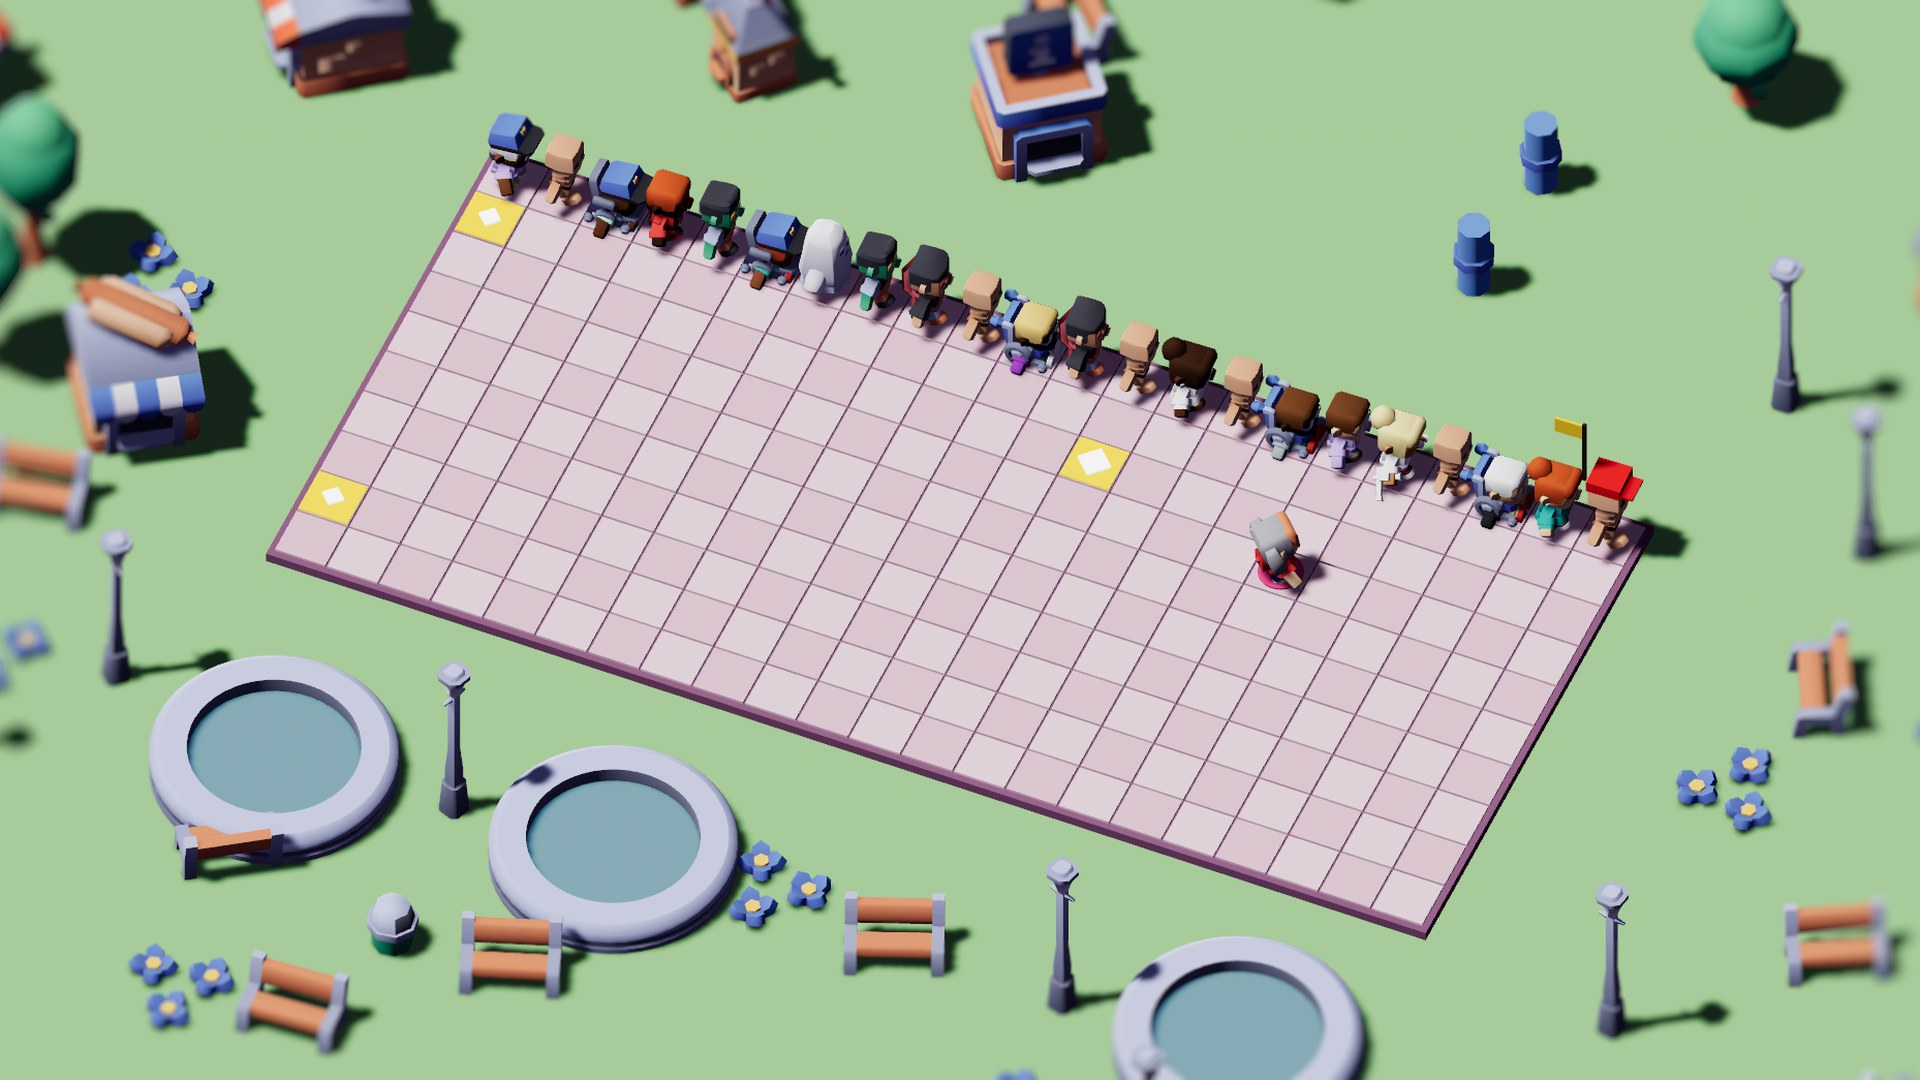
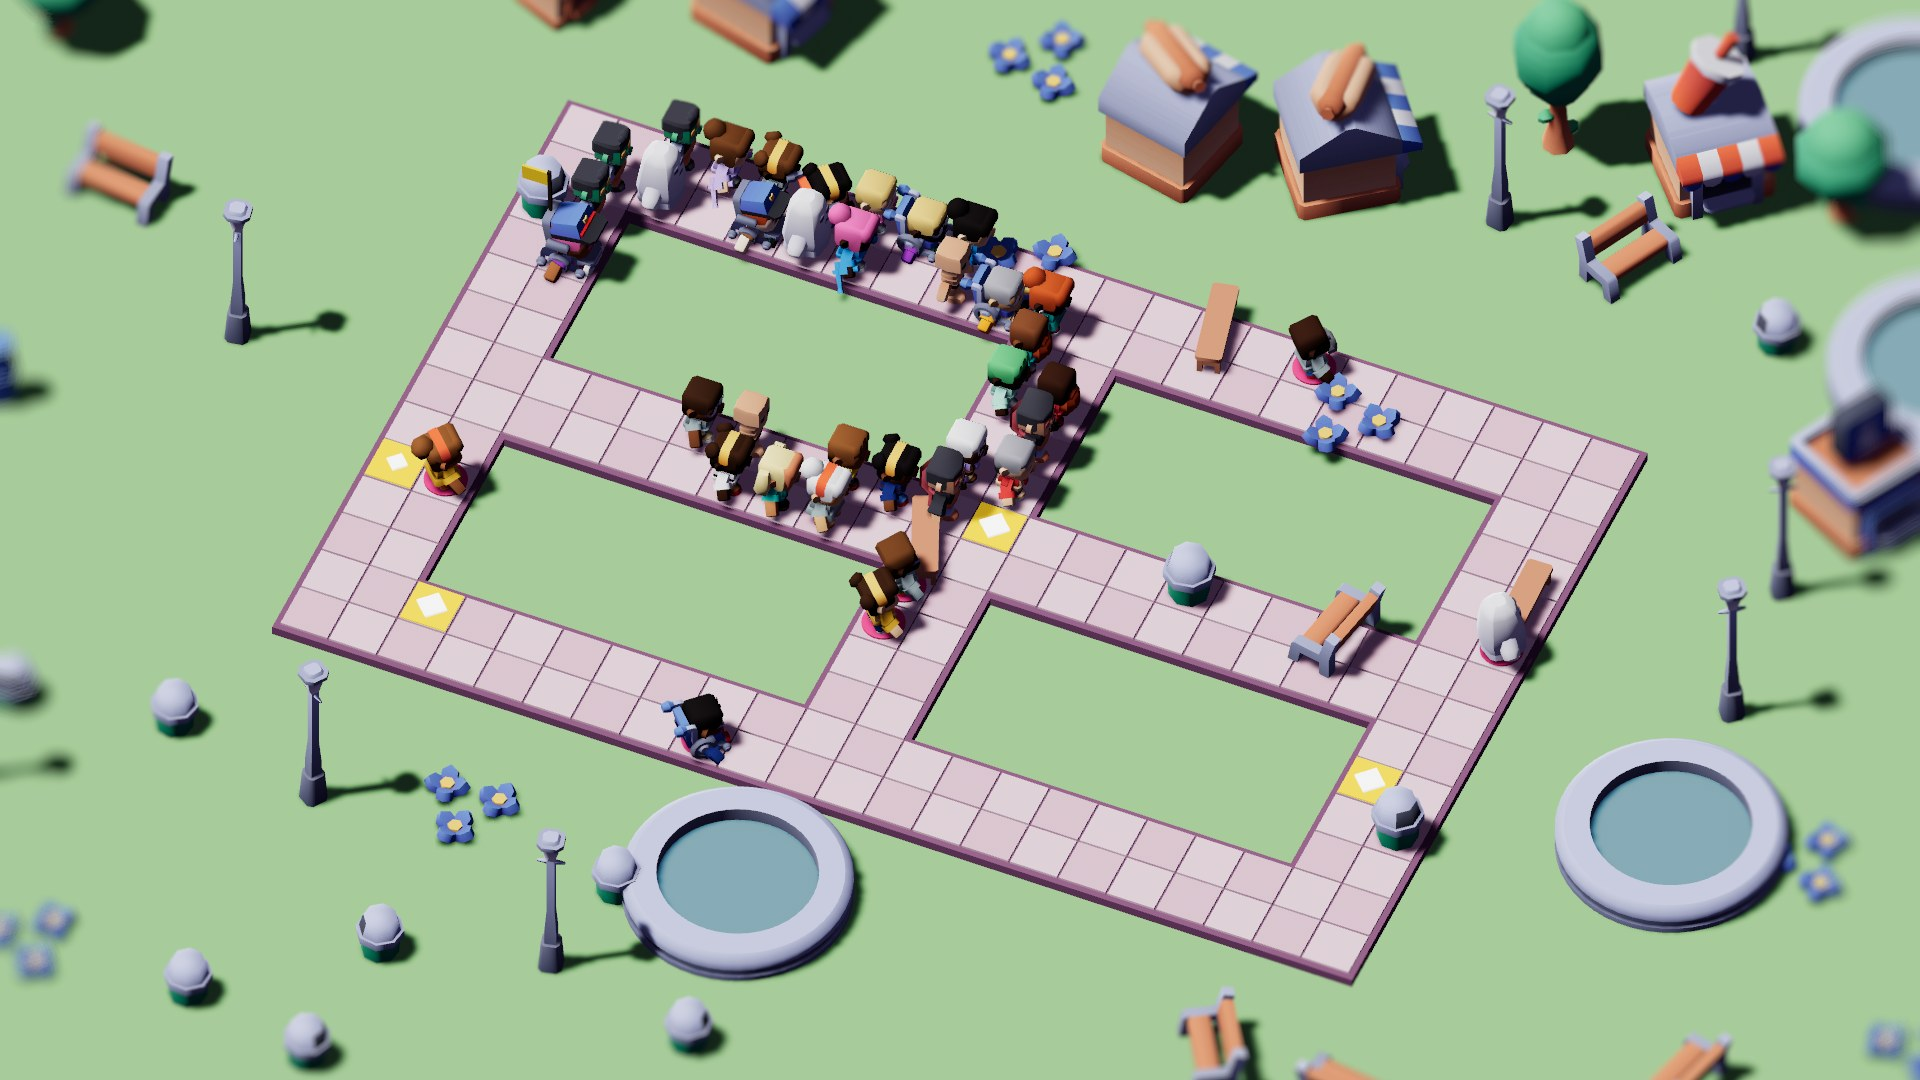
Suivez le guide ! : dossier de presse refait — la file serpente avec des virages, plateaux remplis (obstacles, pièges du lieu, invités à ramasser), caméra plus proche, rival et trains en pleine traversée, éboulements annoncés ; lumière du jour forcée (CC_MOMENT=jour)

diff --git a/games/snake/src/game.rs b/games/snake/src/game.rs
@@ -22,7 +22,7 @@ pub struct GamePlugin;
 impl Plugin for GamePlugin {
     fn build(&self, app: &mut App) {
         app.insert_resource(Conga::new(&Layout::default(), 0))
-            .insert_resource(Food { cell: IVec2::ZERO, kind: 1, look: 0, spawned: true, active: true })
+            .insert_resource(Food { cell: IVec2::ZERO, kind: 1, look: 0, spawned: true, active: true, extras: Vec::new() })
             .init_resource::<Demo>()
             .insert_resource(Paused(false))
             .insert_resource(Boost(0))
@@ -213,6 +213,8 @@ struct Food {
     active: bool,
     /// `false` : son modèle reste à poser.
     spawned: bool,
+    /// Invités en plus, posés pour les images de presse (case, personnage, apparence).
+    extras: Vec<(IVec2, usize, u32)>,
 }
 
 #[derive(Resource)]
@@ -324,24 +326,6 @@ fn new_run(
             board.place(f, &busy, conga.cells[0], &layout, scenery.0, &mut rng);
         }
     }
-    // Essai : une très longue file (SNAKE_LONG=n) pour vérifier la variété des apparences.
-    if let Some(n) = demo.long {
-        let mut path = Vec::new();
-        for y in 0..layout.h {
-            let xs: Vec<i32> = if y % 2 == 0 { (0..layout.w).collect() } else { (0..layout.w).rev().collect() };
-            path.extend(xs.into_iter().map(|x| IVec2::new(x, y)).filter(|c| layout.walkable(*c)));
-        }
-        path.truncate(n.min(path.len()));
-        path.reverse();
-        let pool = progress.persons();
-        conga.cells = path.clone();
-        conga.prev = path;
-        conga.kinds = (0..conga.cells.len()).map(|_| pool[rng.below(pool.len() as u32) as usize]).collect();
-        conga.looks = (0..conga.cells.len() as u32).map(|i| i * 5 % LOOKS).collect();
-        conga.vias = vec![None; conga.cells.len()];
-        conga.dir = if conga.cells.len() > 1 { conga.cells[0] - conga.cells[1] } else { IVec2::X };
-        timer.0 = Timer::from_seconds(5.0, TimerMode::Repeating);
-    }
     debug!("nouvelle partie : plateau {}×{}, tête {}, invité {}", layout.w, layout.h, conga.cells[0], food.cell);
     paused.0 = demo.press;
     if let Mode::Voyage(i) = *mode {
@@ -370,6 +354,119 @@ fn new_run(
             }
         }
     }
+
+    // Essais et images de presse : une longue file qui serpente (SNAKE_LONG=n), des invités à ramasser, les pièges en place.
+    if demo.long.is_some() || demo.press {
+        if demo.press {
+            // Plateau bien rempli : quelques obstacles du paysage en plus.
+            let busy = conga.cells.clone();
+            for _ in 0..6 {
+                board.place(Feature::Obstacle, &busy, conga.cells[0], &layout, scenery.0, &mut rng);
+            }
+            // Éboulements : trois pierres sur le point de tomber, et quelques-unes déjà tombées.
+            if board.falls_left > 0 {
+                let mut placed = 0;
+                for _ in 0..200 {
+                    let c = IVec2::new(rng.below(layout.w as u32) as i32, rng.below(layout.h as u32) as i32);
+                    if placed < 3 && layout.walkable(c) && board.is_free(c, &conga.cells, conga.cells[0]) && !board.next_to_blocker(c) {
+                        board.tiles.insert(c, Tile::Rubble(1_000_000));
+                        placed += 1;
+                    }
+                }
+                let busy = conga.cells.clone();
+                for _ in 0..4 {
+                    board.place(Feature::Obstacle, &busy, conga.cells[0], &layout, scenery.0, &mut rng);
+                }
+                board.falls_left = 0;
+            }
+            // Le guide rival ou le train est au milieu de sa traversée.
+            if let Some(r) = board.rivals.first() {
+                let per = r.period();
+                board.clock = ((r.cells.len() as u32 / 2) + per - r.offset % per) % per;
+            }
+        }
+        if let Some(n) = demo.long {
+            let path = winding_path(&layout, &board, layout.start, n, &mut Rng::new(7 + n as u64));
+            let pool = progress.persons();
+            conga.cells = path.clone();
+            conga.prev = path;
+            conga.kinds = (0..conga.cells.len()).map(|_| pool[rng.below(pool.len() as u32) as usize]).collect();
+            conga.looks = (0..conga.cells.len() as u32).map(|i| i * 5 % LOOKS).collect();
+            conga.vias = vec![None; conga.cells.len()];
+            conga.dir = if conga.cells.len() > 1 { conga.cells[0] - conga.cells[1] } else { IVec2::X };
+            timer.0 = Timer::from_seconds(5.0, TimerMode::Repeating);
+        }
+        food.cell = free_cell(&conga.cells, &board, &layout, &mut rng);
+        food.spawned = false;
+        food.extras.clear();
+        if demo.press {
+            let pool = progress.persons();
+            let mut taken = conga.cells.clone();
+            taken.push(food.cell);
+            for _ in 0..6 {
+                let c = free_cell(&taken, &board, &layout, &mut rng);
+                taken.push(c);
+                food.extras.push((c, pool[rng.below(pool.len() as u32) as usize], rng.below(LOOKS)));
+            }
+        }
+    }
+}
+
+/// Une file de `n` personnes qui serpente (virages, sans se toucher) à partir de `start` ; la tête est la première case.
+fn winding_path(layout: &Layout, board: &Board, start: IVec2, n: usize, rng: &mut Rng) -> Vec<IVec2> {
+    fn go(layout: &Layout, board: &Board, path: &mut Vec<IVec2>, n: usize, rng: &mut Rng, budget: &mut u32, best: &mut Vec<IVec2>, strict: bool) -> bool {
+        if path.len() > best.len() {
+            *best = path.clone();
+        }
+        if path.len() >= n {
+            return true;
+        }
+        if *budget == 0 {
+            return false;
+        }
+        *budget -= 1;
+        let head = *path.last().expect("chemin non vide");
+        let before = path.len().checked_sub(2).map(|i| path[i]);
+        let mut next: Vec<(i32, IVec2)> = [IVec2::X, IVec2::NEG_X, IVec2::Y, IVec2::NEG_Y]
+            .into_iter()
+            .map(|d| head + d)
+            .filter(|c| layout.walkable(*c) && !path.contains(c) && !matches!(board.tiles.get(c), Some(Tile::Obstacle(_) | Tile::Hole | Tile::Rubble(_) | Tile::Teleport(_))))
+            // Strict : un vide d'une case entre deux tronçons de la file, pour qu'elle reste lisible.
+            .filter(|c| !strict || [IVec2::X, IVec2::NEG_X, IVec2::Y, IVec2::NEG_Y].iter().all(|d| *c + *d == head || !path.contains(&(*c + *d))))
+            .map(|c| {
+                // Les cases collées au reste de la file coûtent cher : la file reste aérée. On tourne volontiers.
+                let touching = [IVec2::X, IVec2::NEG_X, IVec2::Y, IVec2::NEG_Y].iter().filter(|d| path.contains(&(c + **d))).count() as i32 - 1;
+                let straight = before.is_some_and(|b| c - head == head - b);
+                (rng.below(100) as i32 + touching * 80 + if straight { 45 } else { 0 }, c)
+            })
+            .collect();
+        next.sort_by_key(|(score, _)| *score);
+        for (_, c) in next {
+            path.push(c);
+            if go(layout, board, path, n, rng, budget, best, strict) {
+                return true;
+            }
+            path.pop();
+        }
+        false
+    }
+    let mut best = vec![start];
+    // D'abord plusieurs essais avec des vides entre les tronçons (lisible), puis sans contrainte si la file est trop longue pour le plateau.
+    let mut found = false;
+    for _ in 0..40 {
+        let (mut path, mut budget) = (vec![start], 4_000);
+        if go(layout, board, &mut path, n, rng, &mut budget, &mut best, true) {
+            found = true;
+            break;
+        }
+    }
+    if !found {
+        best = vec![start];
+        let (mut path, mut budget) = (vec![start], 60_000);
+        go(layout, board, &mut path, n, rng, &mut budget, &mut best, false);
+    }
+    best.reverse();
+    best
 }
 
 fn clear_board(mut commands: Commands, stuff: Query<Entity, Or<(With<Segment>, With<Guest>)>>) {
@@ -822,6 +919,18 @@ fn sync_guest(
         ChildOf(root),
     ));
     people::spawn_model(&mut commands, &server, &mut graphs, root, food.kind, Pose::Wave, 1.0, food.look, false);
+    // Images de presse : d'autres invités à ramasser.
+    for (cell, kind, look) in food.extras.clone() {
+        let extra = commands
+            .spawn((
+                Transform::from_translation(cell_to_world(cell.as_vec2(), 0.05, &layout)).with_rotation(Quat::from_rotation_y(PI * 0.75)),
+                Visibility::default(),
+                Guest,
+            ))
+            .id();
+        commands.spawn((Mesh3d(assets.ring.clone()), MeshMaterial3d(assets.ring_mat.clone()), Transform::from_xyz(0.0, 0.03, 0.0), bevy::light::NotShadowCaster, ChildOf(extra)));
+        people::spawn_model(&mut commands, &server, &mut graphs, extra, kind, Pose::Wave, 1.0, look, false);
+    }
 }
 
 fn animate_guest(time: Res<Time>, mut rings: Query<&mut Transform, With<Ring>>) {

diff --git a/games/snake/src/capture.rs b/games/snake/src/capture.rs
@@ -44,22 +44,23 @@ fn shots(press: bool) -> Vec<Shot> {
     if press {
         // Dossier de presse : le menu, la carte du Voyage et un niveau de chaque lieu (le premier niveau d'un lieu est le n°1 de sa série de 10).
         let at = |name: &'static str, state: GameState, mode: Mode, long: Option<usize>| Shot { name, state, universe: Prairie, long, features: false, shape: Shape::Medium, mode };
+        let rich = |name: &'static str, level: usize, long: usize, features: bool| Shot { name, state: Playing, universe: Prairie, long: Some(long), features, shape: Shape::Medium, mode: Mode::Voyage(level) };
         vec![
             shot("01-menu", Menu, Prairie, None, false),
             at("02-voyage", GameState::Voyage, Mode::Infinite, None),
-            at("03-jardin-public", Playing, Mode::Voyage(3), Some(22)),
-            at("04-desert", Playing, Mode::Voyage(14), Some(22)),
-            at("05-ruines-antiques", Playing, Mode::Voyage(24), Some(22)),
-            at("06-cimetiere", Playing, Mode::Voyage(34), Some(22)),
-            at("07-ile-des-pirates", Playing, Mode::Voyage(44), Some(22)),
-            at("08-parc-de-loisirs", Playing, Mode::Voyage(54), Some(22)),
-            at("09-centre-ville", Playing, Mode::Voyage(64), Some(22)),
-            at("10-gare", Playing, Mode::Voyage(74), Some(22)),
-            at("11-port", Playing, Mode::Voyage(84), Some(22)),
-            at("12-village-medieval", Playing, Mode::Voyage(94), Some(22)),
-            at("13-grottes", Playing, Mode::Voyage(104), Some(22)),
-            at("14-longue-file", Playing, Mode::Voyage(2), Some(100)),
-            shot("15-cases-speciales", Playing, Prairie, Some(6), true),
+            rich("03-jardin-public", 5, 30, true),
+            rich("04-desert", 19, 30, false),
+            rich("05-ruines-antiques", 29, 30, false),
+            rich("06-cimetiere", 39, 30, false),
+            rich("07-ile-des-pirates", 48, 30, false),
+            rich("08-parc-de-loisirs", 58, 30, false),
+            rich("09-centre-ville", 68, 26, false),
+            rich("10-gare", 78, 26, false),
+            rich("11-port", 88, 30, false),
+            rich("12-village-medieval", 98, 28, false),
+            rich("13-grottes", 108, 28, false),
+            rich("14-longue-file", 0, 90, false),
+            shot("15-cases-speciales", Playing, Prairie, Some(12), true),
         ]
     } else {
         vec![
@@ -99,7 +100,9 @@ impl Plugin for CapturePlugin {
 }
 
 /// Fenêtre en 1920×1080 exactement (échelle 1), pour des images de presse.
-fn full_hd(mut windows: Query<&mut Window, With<PrimaryWindow>>) {
+fn full_hd(mut commands: Commands, mut windows: Query<&mut Window, With<PrimaryWindow>>) {
+    // Menus lisibles en 1920×1080.
+    commands.insert_resource(UiScale(1.2));
     for mut w in &mut windows {
         w.resolution.set_scale_factor_override(Some(1.0));
         w.resolution.set(1920.0, 1080.0);

diff --git a/games/snake/src/main.rs b/games/snake/src/main.rs
@@ -85,7 +85,9 @@ fn move_camera(
         let a = (*angle + PI).rem_euclid(TAU) - PI;
         *angle = a * (1.0 - (dt * 4.0).min(1.0));
     }
-    let (w, h) = (layout.w as f32, layout.h as f32);
+    // Images de presse : caméra plus proche, le plateau remplit l'image.
+    let zoom = if std::env::var("SNAKE_PRESSE").is_ok() && *state.get() == GameState::Playing { std::env::var("SNAKE_ZOOM").ok().and_then(|v| v.parse().ok()).unwrap_or(0.95) } else { 1.0 };
+    let (w, h) = (layout.w as f32 * zoom, layout.h as f32 * zoom);
     for (mut tf, mut proj) in &mut cam {
         *tf = Transform::from_translation(Quat::from_rotation_y(*angle) * ISO_OFFSET).looking_at(Vec3::ZERO, Vec3::Y);
         if layout.is_changed() {
